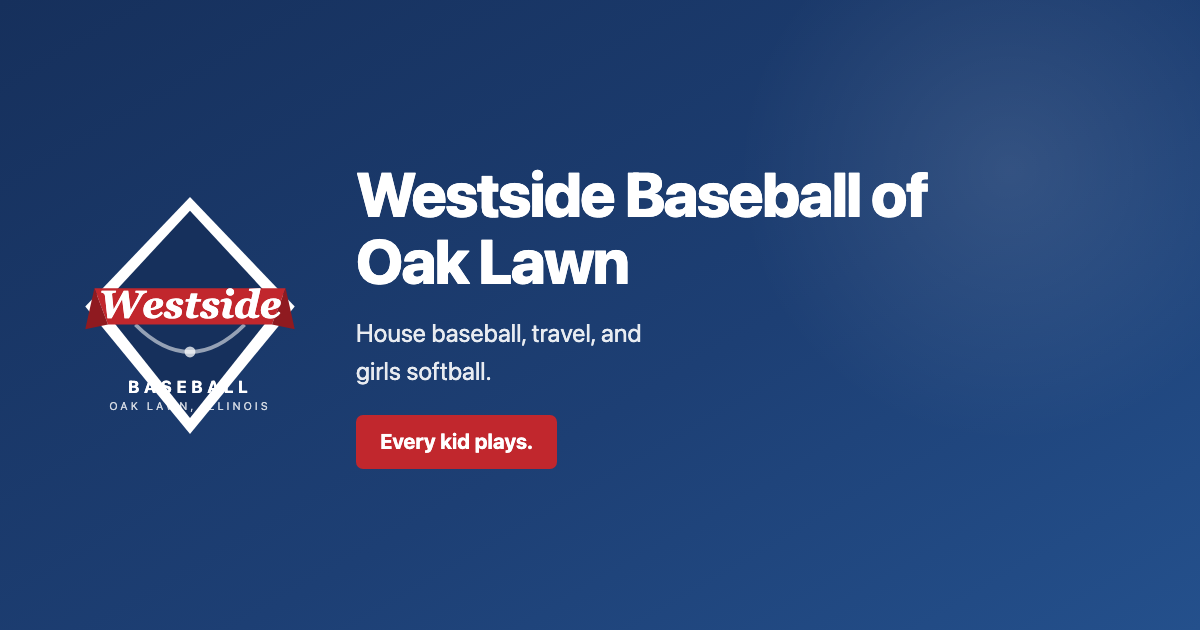
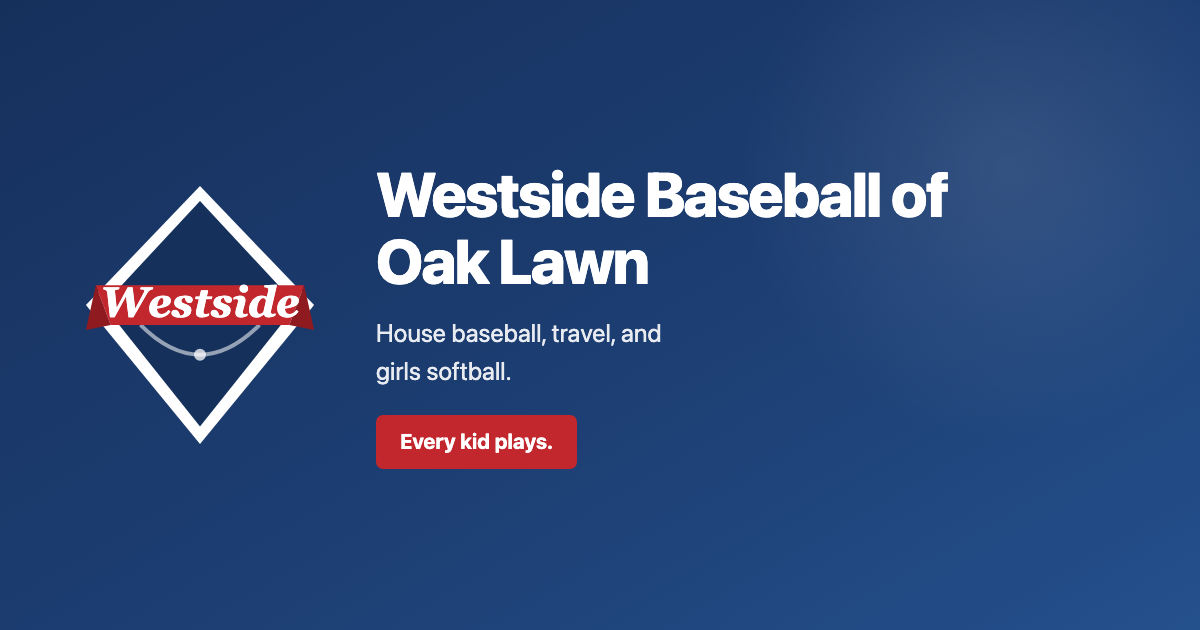
Fix the crest on the social card
The in-crest wordmark sits where the diamond has already narrowed, so at card size the text ran
outside the navy fill. Dropped it from the card, where the headline beside it already carries the
name, and enlarged the crest. The site header is unaffected: it renders the crest with wordmark off.

diff --git a/divisions/shetland/index.html b/divisions/shetland/index.html
@@ -5,13 +5,13 @@
 <meta property="og:title" content="Shetland Baseball in Oak Lawn | Westside Baseball of Oak Lawn"><meta property="og:description" content="Shetland division baseball at Westside Baseball of Oak Lawn. The first year of organized baseball. Coaches pitch or the ball sits on a tee, everyone bats, everyone fields.">
 <meta property="og:url" content="https://ogeddiesmith.github.io/westside-baseball-oak-lawn/divisions/shetland/"><meta property="og:type" content="website">
 <meta property="og:site_name" content="Westside Baseball of Oak Lawn">
-<meta property="og:image" content="https://ogeddiesmith.github.io/westside-baseball-oak-lawn/img/og.png?v=3">
+<meta property="og:image" content="https://ogeddiesmith.github.io/westside-baseball-oak-lawn/img/og.png?v=4">
 <meta property="og:image:width" content="1200"><meta property="og:image:height" content="630">
 <meta property="og:image:alt" content="Westside Baseball of Oak Lawn crest. House baseball, travel, and girls softball.">
 <meta name="twitter:card" content="summary_large_image">
 <meta name="twitter:title" content="Shetland Baseball in Oak Lawn | Westside Baseball of Oak Lawn"><meta name="twitter:description" content="Shetland division baseball at Westside Baseball of Oak Lawn. The first year of organized baseball. Coaches pitch or the ball sits on a tee, everyone bats, everyone fields.">
-<meta name="twitter:image" content="https://ogeddiesmith.github.io/westside-baseball-oak-lawn/img/og.png?v=3">
-<link rel="stylesheet" href="/westside-baseball-oak-lawn/style.css?v=3"></head><body>
+<meta name="twitter:image" content="https://ogeddiesmith.github.io/westside-baseball-oak-lawn/img/og.png?v=4">
+<link rel="stylesheet" href="/westside-baseball-oak-lawn/style.css?v=4"></head><body>
 <header class="site"><div class="wrap"><div class="bar">
 <a href="/westside-baseball-oak-lawn/" class="brand"><svg viewBox="0 0 100 112" width="38" height="42" class="crest" role="img" aria-label="Westside Baseball of Oak Lawn crest"><path d="M50 4 L96 52 L50 108 L4 52 Z" fill="#ffffff"/><path d="M50 10 L89 52 L50 101 L11 52 Z" fill="#16305c"/><path d="M26 60 Q50 84 74 60" fill="none" stroke="#ffffff" stroke-width="1.6" opacity=".55"/><circle cx="50" cy="72" r="2.4" fill="#ffffff" opacity=".75"/><path d="M8 44 L92 44 L86 60 L14 60 Z" fill="#c1272d"/><path d="M8 44 L14 60 L4 62 Z" fill="#8f1a20"/><path d="M92 44 L86 60 L96 62 Z" fill="#8f1a20"/><text x="50" y="57" text-anchor="middle" font-size="17" fill="#ffffff" font-family="Georgia,'Times New Roman',serif" font-style="italic" font-weight="700">Westside</text></svg><span class="bt">Westside Baseball<span>of Oak Lawn</span></span></a>
 <input type="checkbox" id="navtog" aria-label="Open menu">

diff --git a/divisions/pony/index.html b/divisions/pony/index.html
@@ -5,13 +5,13 @@
 <meta property="og:title" content="Pony Baseball in Oak Lawn | Westside Baseball of Oak Lawn"><meta property="og:description" content="Pony division baseball at Westside Baseball of Oak Lawn. The oldest house division, and for many players the last year before high school ball.">
 <meta property="og:url" content="https://ogeddiesmith.github.io/westside-baseball-oak-lawn/divisions/pony/"><meta property="og:type" content="website">
 <meta property="og:site_name" content="Westside Baseball of Oak Lawn">
-<meta property="og:image" content="https://ogeddiesmith.github.io/westside-baseball-oak-lawn/img/og.png?v=3">
+<meta property="og:image" content="https://ogeddiesmith.github.io/westside-baseball-oak-lawn/img/og.png?v=4">
 <meta property="og:image:width" content="1200"><meta property="og:image:height" content="630">
 <meta property="og:image:alt" content="Westside Baseball of Oak Lawn crest. House baseball, travel, and girls softball.">
 <meta name="twitter:card" content="summary_large_image">
 <meta name="twitter:title" content="Pony Baseball in Oak Lawn | Westside Baseball of Oak Lawn"><meta name="twitter:description" content="Pony division baseball at Westside Baseball of Oak Lawn. The oldest house division, and for many players the last year before high school ball.">
-<meta name="twitter:image" content="https://ogeddiesmith.github.io/westside-baseball-oak-lawn/img/og.png?v=3">
-<link rel="stylesheet" href="/westside-baseball-oak-lawn/style.css?v=3"></head><body>
+<meta name="twitter:image" content="https://ogeddiesmith.github.io/westside-baseball-oak-lawn/img/og.png?v=4">
+<link rel="stylesheet" href="/westside-baseball-oak-lawn/style.css?v=4"></head><body>
 <header class="site"><div class="wrap"><div class="bar">
 <a href="/westside-baseball-oak-lawn/" class="brand"><svg viewBox="0 0 100 112" width="38" height="42" class="crest" role="img" aria-label="Westside Baseball of Oak Lawn crest"><path d="M50 4 L96 52 L50 108 L4 52 Z" fill="#ffffff"/><path d="M50 10 L89 52 L50 101 L11 52 Z" fill="#16305c"/><path d="M26 60 Q50 84 74 60" fill="none" stroke="#ffffff" stroke-width="1.6" opacity=".55"/><circle cx="50" cy="72" r="2.4" fill="#ffffff" opacity=".75"/><path d="M8 44 L92 44 L86 60 L14 60 Z" fill="#c1272d"/><path d="M8 44 L14 60 L4 62 Z" fill="#8f1a20"/><path d="M92 44 L86 60 L96 62 Z" fill="#8f1a20"/><text x="50" y="57" text-anchor="middle" font-size="17" fill="#ffffff" font-family="Georgia,'Times New Roman',serif" font-style="italic" font-weight="700">Westside</text></svg><span class="bt">Westside Baseball<span>of Oak Lawn</span></span></a>
 <input type="checkbox" id="navtog" aria-label="Open menu">

diff --git a/divisions/pinto/index.html b/divisions/pinto/index.html
@@ -5,13 +5,13 @@
 <meta property="og:title" content="Pinto Baseball in Oak Lawn | Westside Baseball of Oak Lawn"><meta property="og:description" content="Pinto division baseball at Westside Baseball of Oak Lawn. Coach pitch into player pitch. The year the game starts to look like baseball.">
 <meta property="og:url" content="https://ogeddiesmith.github.io/westside-baseball-oak-lawn/divisions/pinto/"><meta property="og:type" content="website">
 <meta property="og:site_name" content="Westside Baseball of Oak Lawn">
-<meta property="og:image" content="https://ogeddiesmith.github.io/westside-baseball-oak-lawn/img/og.png?v=3">
+<meta property="og:image" content="https://ogeddiesmith.github.io/westside-baseball-oak-lawn/img/og.png?v=4">
 <meta property="og:image:width" content="1200"><meta property="og:image:height" content="630">
 <meta property="og:image:alt" content="Westside Baseball of Oak Lawn crest. House baseball, travel, and girls softball.">
 <meta name="twitter:card" content="summary_large_image">
 <meta name="twitter:title" content="Pinto Baseball in Oak Lawn | Westside Baseball of Oak Lawn"><meta name="twitter:description" content="Pinto division baseball at Westside Baseball of Oak Lawn. Coach pitch into player pitch. The year the game starts to look like baseball.">
-<meta name="twitter:image" content="https://ogeddiesmith.github.io/westside-baseball-oak-lawn/img/og.png?v=3">
-<link rel="stylesheet" href="/westside-baseball-oak-lawn/style.css?v=3"></head><body>
+<meta name="twitter:image" content="https://ogeddiesmith.github.io/westside-baseball-oak-lawn/img/og.png?v=4">
+<link rel="stylesheet" href="/westside-baseball-oak-lawn/style.css?v=4"></head><body>
 <header class="site"><div class="wrap"><div class="bar">
 <a href="/westside-baseball-oak-lawn/" class="brand"><svg viewBox="0 0 100 112" width="38" height="42" class="crest" role="img" aria-label="Westside Baseball of Oak Lawn crest"><path d="M50 4 L96 52 L50 108 L4 52 Z" fill="#ffffff"/><path d="M50 10 L89 52 L50 101 L11 52 Z" fill="#16305c"/><path d="M26 60 Q50 84 74 60" fill="none" stroke="#ffffff" stroke-width="1.6" opacity=".55"/><circle cx="50" cy="72" r="2.4" fill="#ffffff" opacity=".75"/><path d="M8 44 L92 44 L86 60 L14 60 Z" fill="#c1272d"/><path d="M8 44 L14 60 L4 62 Z" fill="#8f1a20"/><path d="M92 44 L86 60 L96 62 Z" fill="#8f1a20"/><text x="50" y="57" text-anchor="middle" font-size="17" fill="#ffffff" font-family="Georgia,'Times New Roman',serif" font-style="italic" font-weight="700">Westside</text></svg><span class="bt">Westside Baseball<span>of Oak Lawn</span></span></a>
 <input type="checkbox" id="navtog" aria-label="Open menu">

diff --git a/divisions/mustang/index.html b/divisions/mustang/index.html
@@ -5,13 +5,13 @@
 <meta property="og:title" content="Mustang Baseball in Oak Lawn | Westside Baseball of Oak Lawn"><meta property="og:description" content="Mustang division baseball at Westside Baseball of Oak Lawn. Player pitch, stealing, and the first full-size version of the game.">
 <meta property="og:url" content="https://ogeddiesmith.github.io/westside-baseball-oak-lawn/divisions/mustang/"><meta property="og:type" content="website">
 <meta property="og:site_name" content="Westside Baseball of Oak Lawn">
-<meta property="og:image" content="https://ogeddiesmith.github.io/westside-baseball-oak-lawn/img/og.png?v=3">
+<meta property="og:image" content="https://ogeddiesmith.github.io/westside-baseball-oak-lawn/img/og.png?v=4">
 <meta property="og:image:width" content="1200"><meta property="og:image:height" content="630">
 <meta property="og:image:alt" content="Westside Baseball of Oak Lawn crest. House baseball, travel, and girls softball.">
 <meta name="twitter:card" content="summary_large_image">
 <meta name="twitter:title" content="Mustang Baseball in Oak Lawn | Westside Baseball of Oak Lawn"><meta name="twitter:description" content="Mustang division baseball at Westside Baseball of Oak Lawn. Player pitch, stealing, and the first full-size version of the game.">
-<meta name="twitter:image" content="https://ogeddiesmith.github.io/westside-baseball-oak-lawn/img/og.png?v=3">
-<link rel="stylesheet" href="/westside-baseball-oak-lawn/style.css?v=3"></head><body>
+<meta name="twitter:image" content="https://ogeddiesmith.github.io/westside-baseball-oak-lawn/img/og.png?v=4">
+<link rel="stylesheet" href="/westside-baseball-oak-lawn/style.css?v=4"></head><body>
 <header class="site"><div class="wrap"><div class="bar">
 <a href="/westside-baseball-oak-lawn/" class="brand"><svg viewBox="0 0 100 112" width="38" height="42" class="crest" role="img" aria-label="Westside Baseball of Oak Lawn crest"><path d="M50 4 L96 52 L50 108 L4 52 Z" fill="#ffffff"/><path d="M50 10 L89 52 L50 101 L11 52 Z" fill="#16305c"/><path d="M26 60 Q50 84 74 60" fill="none" stroke="#ffffff" stroke-width="1.6" opacity=".55"/><circle cx="50" cy="72" r="2.4" fill="#ffffff" opacity=".75"/><path d="M8 44 L92 44 L86 60 L14 60 Z" fill="#c1272d"/><path d="M8 44 L14 60 L4 62 Z" fill="#8f1a20"/><path d="M92 44 L86 60 L96 62 Z" fill="#8f1a20"/><text x="50" y="57" text-anchor="middle" font-size="17" fill="#ffffff" font-family="Georgia,'Times New Roman',serif" font-style="italic" font-weight="700">Westside</text></svg><span class="bt">Westside Baseball<span>of Oak Lawn</span></span></a>
 <input type="checkbox" id="navtog" aria-label="Open menu">

diff --git a/travel/index.html b/travel/index.html
@@ -5,13 +5,13 @@
 <meta property="og:title" content="Westside Warriors Travel Baseball | Westside Baseball of Oak Lawn"><meta property="og:description" content="Westside Warriors travel baseball out of Oak Lawn, Illinois. Tryout information and what happens if a player is not selected.">
 <meta property="og:url" content="https://ogeddiesmith.github.io/westside-baseball-oak-lawn/travel/"><meta property="og:type" content="website">
 <meta property="og:site_name" content="Westside Baseball of Oak Lawn">
-<meta property="og:image" content="https://ogeddiesmith.github.io/westside-baseball-oak-lawn/img/og.png?v=3">
+<meta property="og:image" content="https://ogeddiesmith.github.io/westside-baseball-oak-lawn/img/og.png?v=4">
 <meta property="og:image:width" content="1200"><meta property="og:image:height" content="630">
 <meta property="og:image:alt" content="Westside Baseball of Oak Lawn crest. House baseball, travel, and girls softball.">
 <meta name="twitter:card" content="summary_large_image">
 <meta name="twitter:title" content="Westside Warriors Travel Baseball | Westside Baseball of Oak Lawn"><meta name="twitter:description" content="Westside Warriors travel baseball out of Oak Lawn, Illinois. Tryout information and what happens if a player is not selected.">
-<meta name="twitter:image" content="https://ogeddiesmith.github.io/westside-baseball-oak-lawn/img/og.png?v=3">
-<link rel="stylesheet" href="/westside-baseball-oak-lawn/style.css?v=3"></head><body>
+<meta name="twitter:image" content="https://ogeddiesmith.github.io/westside-baseball-oak-lawn/img/og.png?v=4">
+<link rel="stylesheet" href="/westside-baseball-oak-lawn/style.css?v=4"></head><body>
 <header class="site"><div class="wrap"><div class="bar">
 <a href="/westside-baseball-oak-lawn/" class="brand"><svg viewBox="0 0 100 112" width="38" height="42" class="crest" role="img" aria-label="Westside Baseball of Oak Lawn crest"><path d="M50 4 L96 52 L50 108 L4 52 Z" fill="#ffffff"/><path d="M50 10 L89 52 L50 101 L11 52 Z" fill="#16305c"/><path d="M26 60 Q50 84 74 60" fill="none" stroke="#ffffff" stroke-width="1.6" opacity=".55"/><circle cx="50" cy="72" r="2.4" fill="#ffffff" opacity=".75"/><path d="M8 44 L92 44 L86 60 L14 60 Z" fill="#c1272d"/><path d="M8 44 L14 60 L4 62 Z" fill="#8f1a20"/><path d="M92 44 L86 60 L96 62 Z" fill="#8f1a20"/><text x="50" y="57" text-anchor="middle" font-size="17" fill="#ffffff" font-family="Georgia,'Times New Roman',serif" font-style="italic" font-weight="700">Westside</text></svg><span class="bt">Westside Baseball<span>of Oak Lawn</span></span></a>
 <input type="checkbox" id="navtog" aria-label="Open menu">

diff --git a/divisions/palomino/index.html b/divisions/palomino/index.html
@@ -5,13 +5,13 @@
 <meta property="og:title" content="Palomino Baseball in Oak Lawn | Westside Baseball of Oak Lawn"><meta property="og:description" content="Palomino division baseball at Westside Baseball of Oak Lawn. The top of the ladder, for the oldest players in the program.">
 <meta property="og:url" content="https://ogeddiesmith.github.io/westside-baseball-oak-lawn/divisions/palomino/"><meta property="og:type" content="website">
 <meta property="og:site_name" content="Westside Baseball of Oak Lawn">
-<meta property="og:image" content="https://ogeddiesmith.github.io/westside-baseball-oak-lawn/img/og.png?v=3">
+<meta property="og:image" content="https://ogeddiesmith.github.io/westside-baseball-oak-lawn/img/og.png?v=4">
 <meta property="og:image:width" content="1200"><meta property="og:image:height" content="630">
 <meta property="og:image:alt" content="Westside Baseball of Oak Lawn crest. House baseball, travel, and girls softball.">
 <meta name="twitter:card" content="summary_large_image">
 <meta name="twitter:title" content="Palomino Baseball in Oak Lawn | Westside Baseball of Oak Lawn"><meta name="twitter:description" content="Palomino division baseball at Westside Baseball of Oak Lawn. The top of the ladder, for the oldest players in the program.">
-<meta name="twitter:image" content="https://ogeddiesmith.github.io/westside-baseball-oak-lawn/img/og.png?v=3">
-<link rel="stylesheet" href="/westside-baseball-oak-lawn/style.css?v=3"></head><body>
+<meta name="twitter:image" content="https://ogeddiesmith.github.io/westside-baseball-oak-lawn/img/og.png?v=4">
+<link rel="stylesheet" href="/westside-baseball-oak-lawn/style.css?v=4"></head><body>
 <header class="site"><div class="wrap"><div class="bar">
 <a href="/westside-baseball-oak-lawn/" class="brand"><svg viewBox="0 0 100 112" width="38" height="42" class="crest" role="img" aria-label="Westside Baseball of Oak Lawn crest"><path d="M50 4 L96 52 L50 108 L4 52 Z" fill="#ffffff"/><path d="M50 10 L89 52 L50 101 L11 52 Z" fill="#16305c"/><path d="M26 60 Q50 84 74 60" fill="none" stroke="#ffffff" stroke-width="1.6" opacity=".55"/><circle cx="50" cy="72" r="2.4" fill="#ffffff" opacity=".75"/><path d="M8 44 L92 44 L86 60 L14 60 Z" fill="#c1272d"/><path d="M8 44 L14 60 L4 62 Z" fill="#8f1a20"/><path d="M92 44 L86 60 L96 62 Z" fill="#8f1a20"/><text x="50" y="57" text-anchor="middle" font-size="17" fill="#ffffff" font-family="Georgia,'Times New Roman',serif" font-style="italic" font-weight="700">Westside</text></svg><span class="bt">Westside Baseball<span>of Oak Lawn</span></span></a>
 <input type="checkbox" id="navtog" aria-label="Open menu">

diff --git a/softball/index.html b/softball/index.html
@@ -5,13 +5,13 @@
 <meta property="og:title" content="Girls Softball in Oak Lawn | Westside Baseball of Oak Lawn"><meta property="og:description" content="Westside Baseball of Oak Lawn is rebuilding its girls softball program. Register your interest for the coming season.">
 <meta property="og:url" content="https://ogeddiesmith.github.io/westside-baseball-oak-lawn/softball/"><meta property="og:type" content="website">
 <meta property="og:site_name" content="Westside Baseball of Oak Lawn">
-<meta property="og:image" content="https://ogeddiesmith.github.io/westside-baseball-oak-lawn/img/og.png?v=3">
+<meta property="og:image" content="https://ogeddiesmith.github.io/westside-baseball-oak-lawn/img/og.png?v=4">
 <meta property="og:image:width" content="1200"><meta property="og:image:height" content="630">
 <meta property="og:image:alt" content="Westside Baseball of Oak Lawn crest. House baseball, travel, and girls softball.">
 <meta name="twitter:card" content="summary_large_image">
 <meta name="twitter:title" content="Girls Softball in Oak Lawn | Westside Baseball of Oak Lawn"><meta name="twitter:description" content="Westside Baseball of Oak Lawn is rebuilding its girls softball program. Register your interest for the coming season.">
-<meta name="twitter:image" content="https://ogeddiesmith.github.io/westside-baseball-oak-lawn/img/og.png?v=3">
-<link rel="stylesheet" href="/westside-baseball-oak-lawn/style.css?v=3"></head><body>
+<meta name="twitter:image" content="https://ogeddiesmith.github.io/westside-baseball-oak-lawn/img/og.png?v=4">
+<link rel="stylesheet" href="/westside-baseball-oak-lawn/style.css?v=4"></head><body>
 <header class="site"><div class="wrap"><div class="bar">
 <a href="/westside-baseball-oak-lawn/" class="brand"><svg viewBox="0 0 100 112" width="38" height="42" class="crest" role="img" aria-label="Westside Baseball of Oak Lawn crest"><path d="M50 4 L96 52 L50 108 L4 52 Z" fill="#ffffff"/><path d="M50 10 L89 52 L50 101 L11 52 Z" fill="#16305c"/><path d="M26 60 Q50 84 74 60" fill="none" stroke="#ffffff" stroke-width="1.6" opacity=".55"/><circle cx="50" cy="72" r="2.4" fill="#ffffff" opacity=".75"/><path d="M8 44 L92 44 L86 60 L14 60 Z" fill="#c1272d"/><path d="M8 44 L14 60 L4 62 Z" fill="#8f1a20"/><path d="M92 44 L86 60 L96 62 Z" fill="#8f1a20"/><text x="50" y="57" text-anchor="middle" font-size="17" fill="#ffffff" font-family="Georgia,'Times New Roman',serif" font-style="italic" font-weight="700">Westside</text></svg><span class="bt">Westside Baseball<span>of Oak Lawn</span></span></a>
 <input type="checkbox" id="navtog" aria-label="Open menu">

diff --git a/divisions/index.html b/divisions/index.html
@@ -5,13 +5,13 @@
 <meta property="og:title" content="Baseball Divisions | Westside Baseball of Oak Lawn"><meta property="og:description" content="Westside Baseball of Oak Lawn division structure, from Shetland through the oldest divisions, for house and travel players.">
 <meta property="og:url" content="https://ogeddiesmith.github.io/westside-baseball-oak-lawn/divisions/"><meta property="og:type" content="website">
 <meta property="og:site_name" content="Westside Baseball of Oak Lawn">
-<meta property="og:image" content="https://ogeddiesmith.github.io/westside-baseball-oak-lawn/img/og.png?v=3">
+<meta property="og:image" content="https://ogeddiesmith.github.io/westside-baseball-oak-lawn/img/og.png?v=4">
 <meta property="og:image:width" content="1200"><meta property="og:image:height" content="630">
 <meta property="og:image:alt" content="Westside Baseball of Oak Lawn crest. House baseball, travel, and girls softball.">
 <meta name="twitter:card" content="summary_large_image">
 <meta name="twitter:title" content="Baseball Divisions | Westside Baseball of Oak Lawn"><meta name="twitter:description" content="Westside Baseball of Oak Lawn division structure, from Shetland through the oldest divisions, for house and travel players.">
-<meta name="twitter:image" content="https://ogeddiesmith.github.io/westside-baseball-oak-lawn/img/og.png?v=3">
-<link rel="stylesheet" href="/westside-baseball-oak-lawn/style.css?v=3"></head><body>
+<meta name="twitter:image" content="https://ogeddiesmith.github.io/westside-baseball-oak-lawn/img/og.png?v=4">
+<link rel="stylesheet" href="/westside-baseball-oak-lawn/style.css?v=4"></head><body>
 <header class="site"><div class="wrap"><div class="bar">
 <a href="/westside-baseball-oak-lawn/" class="brand"><svg viewBox="0 0 100 112" width="38" height="42" class="crest" role="img" aria-label="Westside Baseball of Oak Lawn crest"><path d="M50 4 L96 52 L50 108 L4 52 Z" fill="#ffffff"/><path d="M50 10 L89 52 L50 101 L11 52 Z" fill="#16305c"/><path d="M26 60 Q50 84 74 60" fill="none" stroke="#ffffff" stroke-width="1.6" opacity=".55"/><circle cx="50" cy="72" r="2.4" fill="#ffffff" opacity=".75"/><path d="M8 44 L92 44 L86 60 L14 60 Z" fill="#c1272d"/><path d="M8 44 L14 60 L4 62 Z" fill="#8f1a20"/><path d="M92 44 L86 60 L96 62 Z" fill="#8f1a20"/><text x="50" y="57" text-anchor="middle" font-size="17" fill="#ffffff" font-family="Georgia,'Times New Roman',serif" font-style="italic" font-weight="700">Westside</text></svg><span class="bt">Westside Baseball<span>of Oak Lawn</span></span></a>
 <input type="checkbox" id="navtog" aria-label="Open menu">

diff --git a/about/index.html b/about/index.html
@@ -5,13 +5,13 @@
 <meta property="og:title" content="About | Westside Baseball of Oak Lawn"><meta property="og:description" content="Westside Baseball of Oak Lawn is a volunteer-run youth baseball organization serving Oak Lawn and the surrounding communities.">
 <meta property="og:url" content="https://ogeddiesmith.github.io/westside-baseball-oak-lawn/about/"><meta property="og:type" content="website">
 <meta property="og:site_name" content="Westside Baseball of Oak Lawn">
-<meta property="og:image" content="https://ogeddiesmith.github.io/westside-baseball-oak-lawn/img/og.png?v=3">
+<meta property="og:image" content="https://ogeddiesmith.github.io/westside-baseball-oak-lawn/img/og.png?v=4">
 <meta property="og:image:width" content="1200"><meta property="og:image:height" content="630">
 <meta property="og:image:alt" content="Westside Baseball of Oak Lawn crest. House baseball, travel, and girls softball.">
 <meta name="twitter:card" content="summary_large_image">
 <meta name="twitter:title" content="About | Westside Baseball of Oak Lawn"><meta name="twitter:description" content="Westside Baseball of Oak Lawn is a volunteer-run youth baseball organization serving Oak Lawn and the surrounding communities.">
-<meta name="twitter:image" content="https://ogeddiesmith.github.io/westside-baseball-oak-lawn/img/og.png?v=3">
-<link rel="stylesheet" href="/westside-baseball-oak-lawn/style.css?v=3"></head><body>
+<meta name="twitter:image" content="https://ogeddiesmith.github.io/westside-baseball-oak-lawn/img/og.png?v=4">
+<link rel="stylesheet" href="/westside-baseball-oak-lawn/style.css?v=4"></head><body>
 <header class="site"><div class="wrap"><div class="bar">
 <a href="/westside-baseball-oak-lawn/" class="brand"><svg viewBox="0 0 100 112" width="38" height="42" class="crest" role="img" aria-label="Westside Baseball of Oak Lawn crest"><path d="M50 4 L96 52 L50 108 L4 52 Z" fill="#ffffff"/><path d="M50 10 L89 52 L50 101 L11 52 Z" fill="#16305c"/><path d="M26 60 Q50 84 74 60" fill="none" stroke="#ffffff" stroke-width="1.6" opacity=".55"/><circle cx="50" cy="72" r="2.4" fill="#ffffff" opacity=".75"/><path d="M8 44 L92 44 L86 60 L14 60 Z" fill="#c1272d"/><path d="M8 44 L14 60 L4 62 Z" fill="#8f1a20"/><path d="M92 44 L86 60 L96 62 Z" fill="#8f1a20"/><text x="50" y="57" text-anchor="middle" font-size="17" fill="#ffffff" font-family="Georgia,'Times New Roman',serif" font-style="italic" font-weight="700">Westside</text></svg><span class="bt">Westside Baseball<span>of Oak Lawn</span></span></a>
 <input type="checkbox" id="navtog" aria-label="Open menu">

diff --git a/divisions/bronco/index.html b/divisions/bronco/index.html
@@ -5,13 +5,13 @@
 <meta property="og:title" content="Bronco Baseball in Oak Lawn | Westside Baseball of Oak Lawn"><meta property="og:description" content="Bronco division baseball at Westside Baseball of Oak Lawn. A bigger diamond and a faster game.">
 <meta property="og:url" content="https://ogeddiesmith.github.io/westside-baseball-oak-lawn/divisions/bronco/"><meta property="og:type" content="website">
 <meta property="og:site_name" content="Westside Baseball of Oak Lawn">
-<meta property="og:image" content="https://ogeddiesmith.github.io/westside-baseball-oak-lawn/img/og.png?v=3">
+<meta property="og:image" content="https://ogeddiesmith.github.io/westside-baseball-oak-lawn/img/og.png?v=4">
 <meta property="og:image:width" content="1200"><meta property="og:image:height" content="630">
 <meta property="og:image:alt" content="Westside Baseball of Oak Lawn crest. House baseball, travel, and girls softball.">
 <meta name="twitter:card" content="summary_large_image">
 <meta name="twitter:title" content="Bronco Baseball in Oak Lawn | Westside Baseball of Oak Lawn"><meta name="twitter:description" content="Bronco division baseball at Westside Baseball of Oak Lawn. A bigger diamond and a faster game.">
-<meta name="twitter:image" content="https://ogeddiesmith.github.io/westside-baseball-oak-lawn/img/og.png?v=3">
-<link rel="stylesheet" href="/westside-baseball-oak-lawn/style.css?v=3"></head><body>
+<meta name="twitter:image" content="https://ogeddiesmith.github.io/westside-baseball-oak-lawn/img/og.png?v=4">
+<link rel="stylesheet" href="/westside-baseball-oak-lawn/style.css?v=4"></head><body>
 <header class="site"><div class="wrap"><div class="bar">
 <a href="/westside-baseball-oak-lawn/" class="brand"><svg viewBox="0 0 100 112" width="38" height="42" class="crest" role="img" aria-label="Westside Baseball of Oak Lawn crest"><path d="M50 4 L96 52 L50 108 L4 52 Z" fill="#ffffff"/><path d="M50 10 L89 52 L50 101 L11 52 Z" fill="#16305c"/><path d="M26 60 Q50 84 74 60" fill="none" stroke="#ffffff" stroke-width="1.6" opacity=".55"/><circle cx="50" cy="72" r="2.4" fill="#ffffff" opacity=".75"/><path d="M8 44 L92 44 L86 60 L14 60 Z" fill="#c1272d"/><path d="M8 44 L14 60 L4 62 Z" fill="#8f1a20"/><path d="M92 44 L86 60 L96 62 Z" fill="#8f1a20"/><text x="50" y="57" text-anchor="middle" font-size="17" fill="#ffffff" font-family="Georgia,'Times New Roman',serif" font-style="italic" font-weight="700">Westside</text></svg><span class="bt">Westside Baseball<span>of Oak Lawn</span></span></a>
 <input type="checkbox" id="navtog" aria-label="Open menu">

diff --git a/fields/index.html b/fields/index.html
@@ -5,13 +5,13 @@
 <meta property="og:title" content="Fields and Directions | Westside Baseball of Oak Lawn"><meta property="og:description" content="Westside Baseball fields at 9400 S. Oak Park Ave, Oak Lawn, Illinois. Directions and parking.">
 <meta property="og:url" content="https://ogeddiesmith.github.io/westside-baseball-oak-lawn/fields/"><meta property="og:type" content="website">
 <meta property="og:site_name" content="Westside Baseball of Oak Lawn">
-<meta property="og:image" content="https://ogeddiesmith.github.io/westside-baseball-oak-lawn/img/og.png?v=3">
+<meta property="og:image" content="https://ogeddiesmith.github.io/westside-baseball-oak-lawn/img/og.png?v=4">
 <meta property="og:image:width" content="1200"><meta property="og:image:height" content="630">
 <meta property="og:image:alt" content="Westside Baseball of Oak Lawn crest. House baseball, travel, and girls softball.">
 <meta name="twitter:card" content="summary_large_image">
 <meta name="twitter:title" content="Fields and Directions | Westside Baseball of Oak Lawn"><meta name="twitter:description" content="Westside Baseball fields at 9400 S. Oak Park Ave, Oak Lawn, Illinois. Directions and parking.">
-<meta name="twitter:image" content="https://ogeddiesmith.github.io/westside-baseball-oak-lawn/img/og.png?v=3">
-<link rel="stylesheet" href="/westside-baseball-oak-lawn/style.css?v=3"></head><body>
+<meta name="twitter:image" content="https://ogeddiesmith.github.io/westside-baseball-oak-lawn/img/og.png?v=4">
+<link rel="stylesheet" href="/westside-baseball-oak-lawn/style.css?v=4"></head><body>
 <header class="site"><div class="wrap"><div class="bar">
 <a href="/westside-baseball-oak-lawn/" class="brand"><svg viewBox="0 0 100 112" width="38" height="42" class="crest" role="img" aria-label="Westside Baseball of Oak Lawn crest"><path d="M50 4 L96 52 L50 108 L4 52 Z" fill="#ffffff"/><path d="M50 10 L89 52 L50 101 L11 52 Z" fill="#16305c"/><path d="M26 60 Q50 84 74 60" fill="none" stroke="#ffffff" stroke-width="1.6" opacity=".55"/><circle cx="50" cy="72" r="2.4" fill="#ffffff" opacity=".75"/><path d="M8 44 L92 44 L86 60 L14 60 Z" fill="#c1272d"/><path d="M8 44 L14 60 L4 62 Z" fill="#8f1a20"/><path d="M92 44 L86 60 L96 62 Z" fill="#8f1a20"/><text x="50" y="57" text-anchor="middle" font-size="17" fill="#ffffff" font-family="Georgia,'Times New Roman',serif" font-style="italic" font-weight="700">Westside</text></svg><span class="bt">Westside Baseball<span>of Oak Lawn</span></span></a>
 <input type="checkbox" id="navtog" aria-label="Open menu">

diff --git a/faq/index.html b/faq/index.html
@@ -5,13 +5,13 @@
 <meta property="og:title" content="FAQ | Westside Baseball of Oak Lawn"><meta property="og:description" content="Common questions about Westside Baseball of Oak Lawn: eligibility, cost, playing time, and how divisions work.">
 <meta property="og:url" content="https://ogeddiesmith.github.io/westside-baseball-oak-lawn/faq/"><meta property="og:type" content="website">
 <meta property="og:site_name" content="Westside Baseball of Oak Lawn">
-<meta property="og:image" content="https://ogeddiesmith.github.io/westside-baseball-oak-lawn/img/og.png?v=3">
+<meta property="og:image" content="https://ogeddiesmith.github.io/westside-baseball-oak-lawn/img/og.png?v=4">
 <meta property="og:image:width" content="1200"><meta property="og:image:height" content="630">
 <meta property="og:image:alt" content="Westside Baseball of Oak Lawn crest. House baseball, travel, and girls softball.">
 <meta name="twitter:card" content="summary_large_image">
 <meta name="twitter:title" content="FAQ | Westside Baseball of Oak Lawn"><meta name="twitter:description" content="Common questions about Westside Baseball of Oak Lawn: eligibility, cost, playing time, and how divisions work.">
-<meta name="twitter:image" content="https://ogeddiesmith.github.io/westside-baseball-oak-lawn/img/og.png?v=3">
-<link rel="stylesheet" href="/westside-baseball-oak-lawn/style.css?v=3"></head><body>
+<meta name="twitter:image" content="https://ogeddiesmith.github.io/westside-baseball-oak-lawn/img/og.png?v=4">
+<link rel="stylesheet" href="/westside-baseball-oak-lawn/style.css?v=4"></head><body>
 <header class="site"><div class="wrap"><div class="bar">
 <a href="/westside-baseball-oak-lawn/" class="brand"><svg viewBox="0 0 100 112" width="38" height="42" class="crest" role="img" aria-label="Westside Baseball of Oak Lawn crest"><path d="M50 4 L96 52 L50 108 L4 52 Z" fill="#ffffff"/><path d="M50 10 L89 52 L50 101 L11 52 Z" fill="#16305c"/><path d="M26 60 Q50 84 74 60" fill="none" stroke="#ffffff" stroke-width="1.6" opacity=".55"/><circle cx="50" cy="72" r="2.4" fill="#ffffff" opacity=".75"/><path d="M8 44 L92 44 L86 60 L14 60 Z" fill="#c1272d"/><path d="M8 44 L14 60 L4 62 Z" fill="#8f1a20"/><path d="M92 44 L86 60 L96 62 Z" fill="#8f1a20"/><text x="50" y="57" text-anchor="middle" font-size="17" fill="#ffffff" font-family="Georgia,'Times New Roman',serif" font-style="italic" font-weight="700">Westside</text></svg><span class="bt">Westside Baseball<span>of Oak Lawn</span></span></a>
 <input type="checkbox" id="navtog" aria-label="Open menu">
